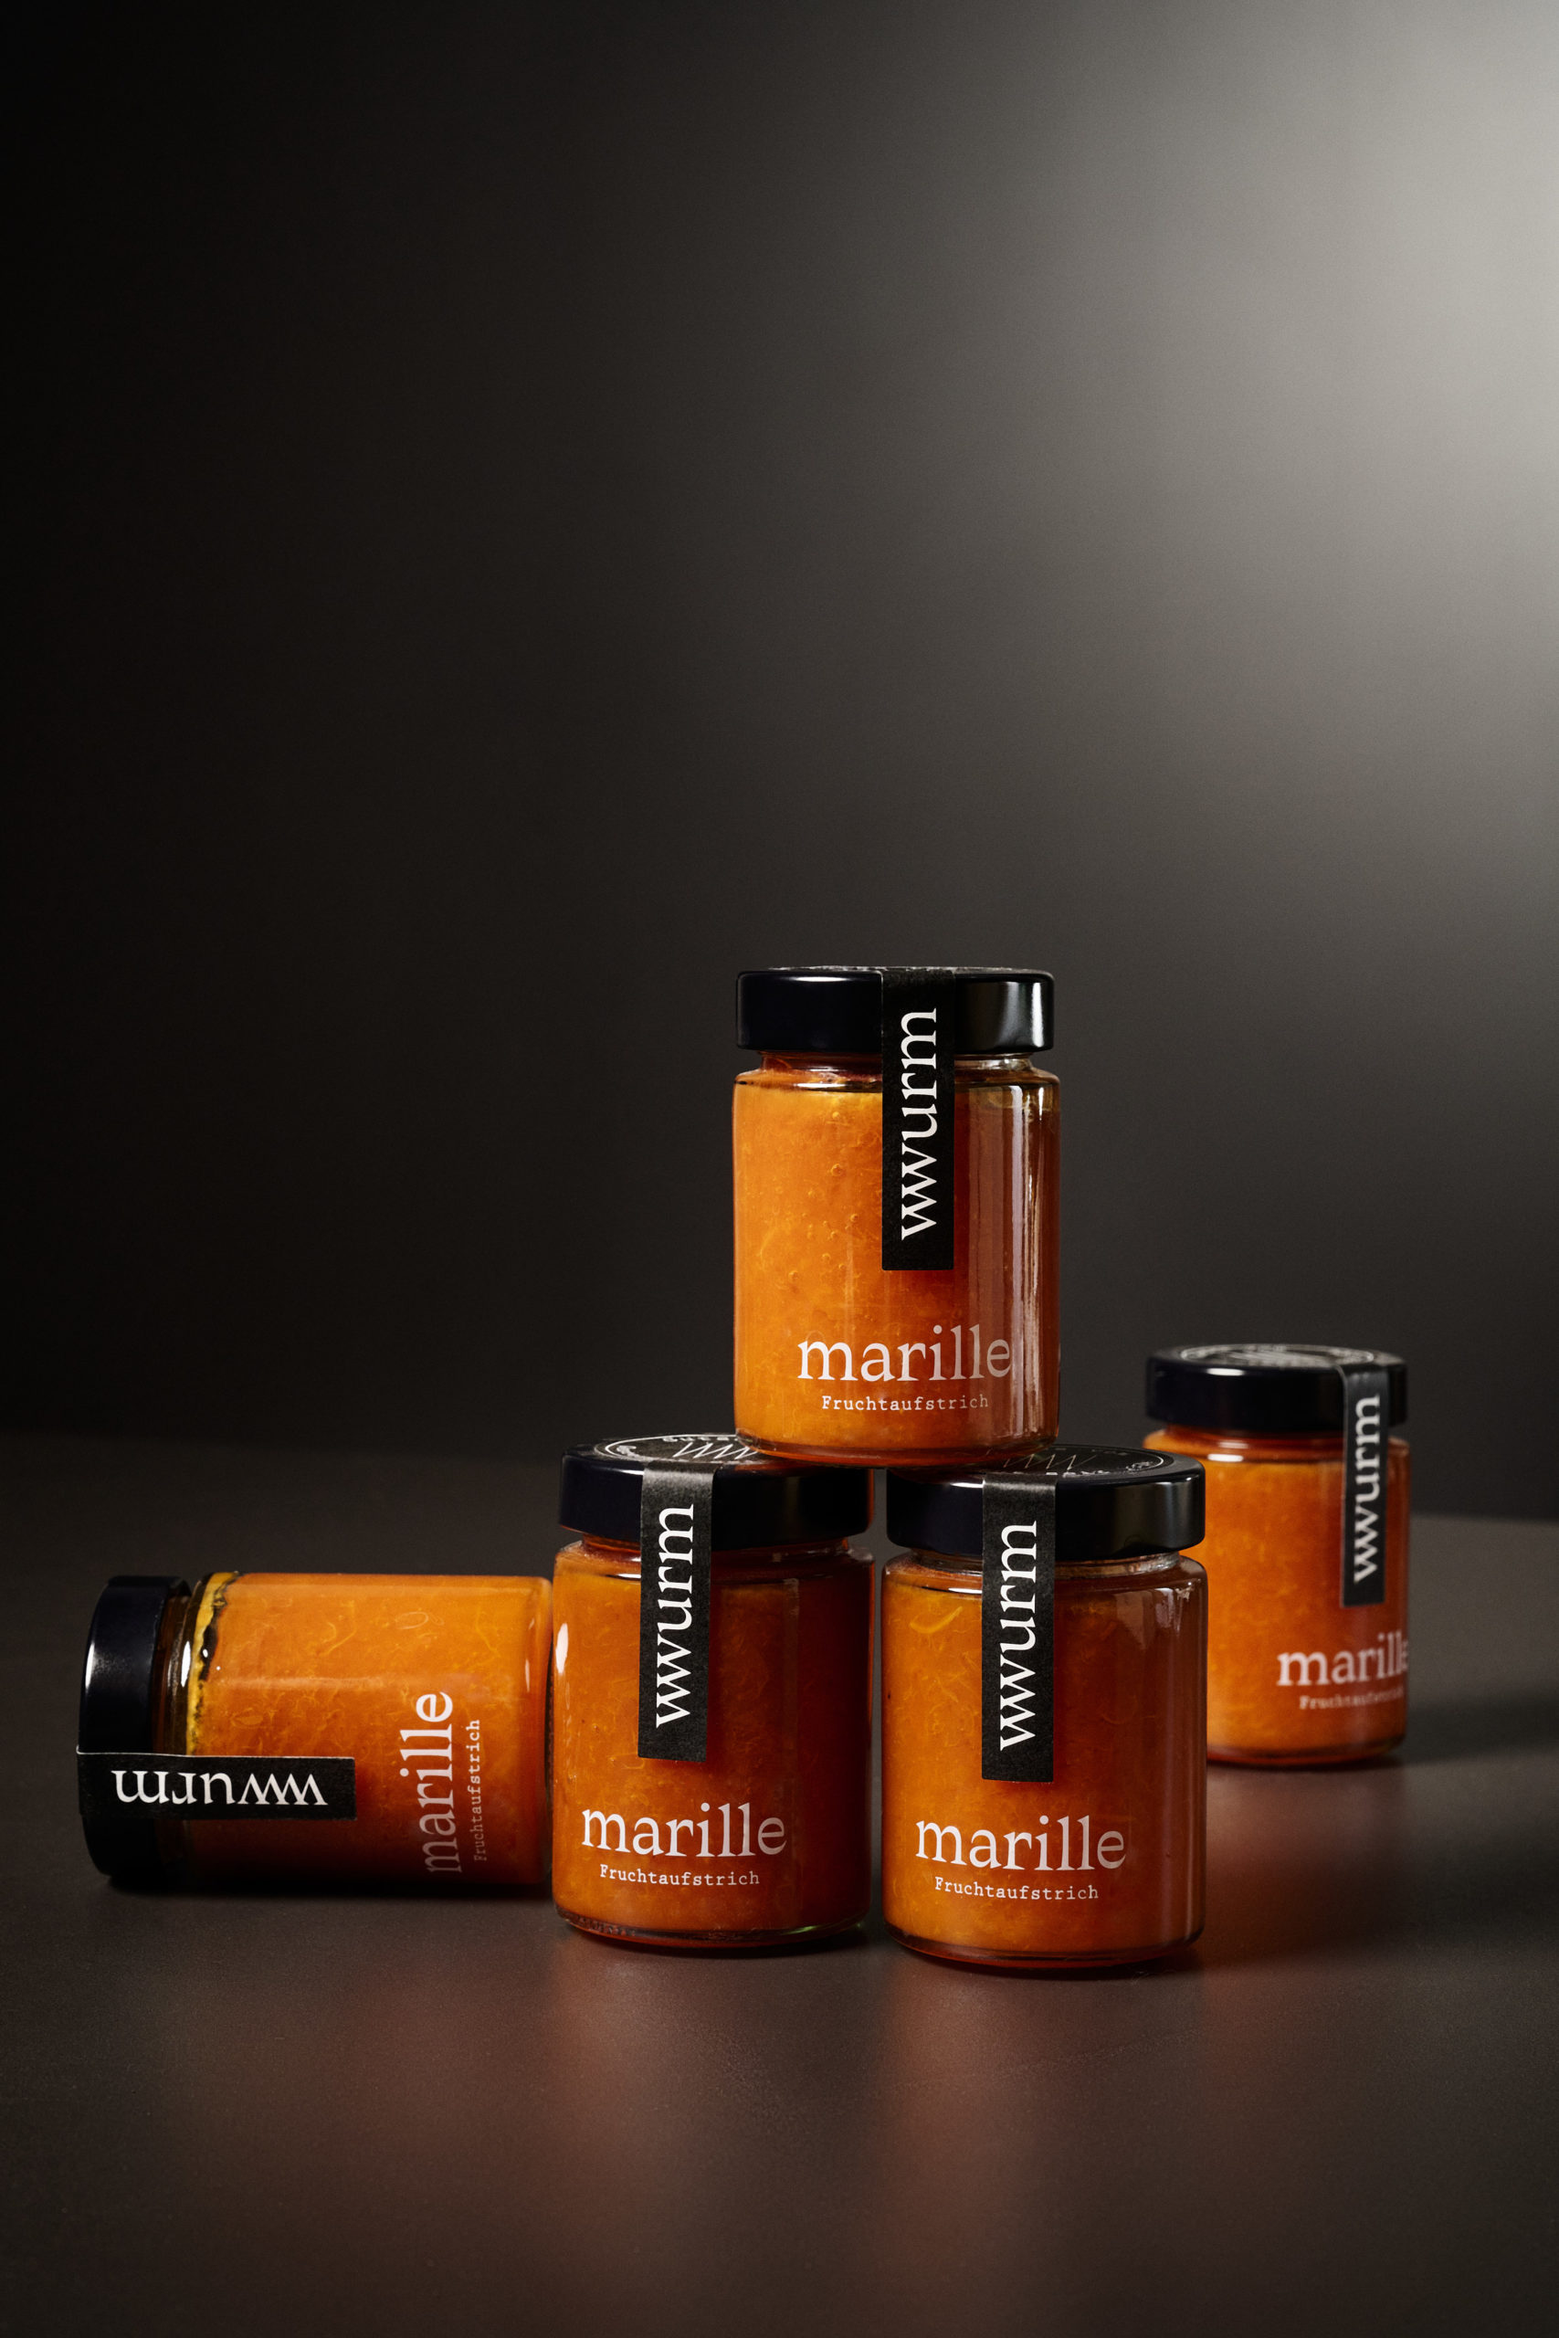
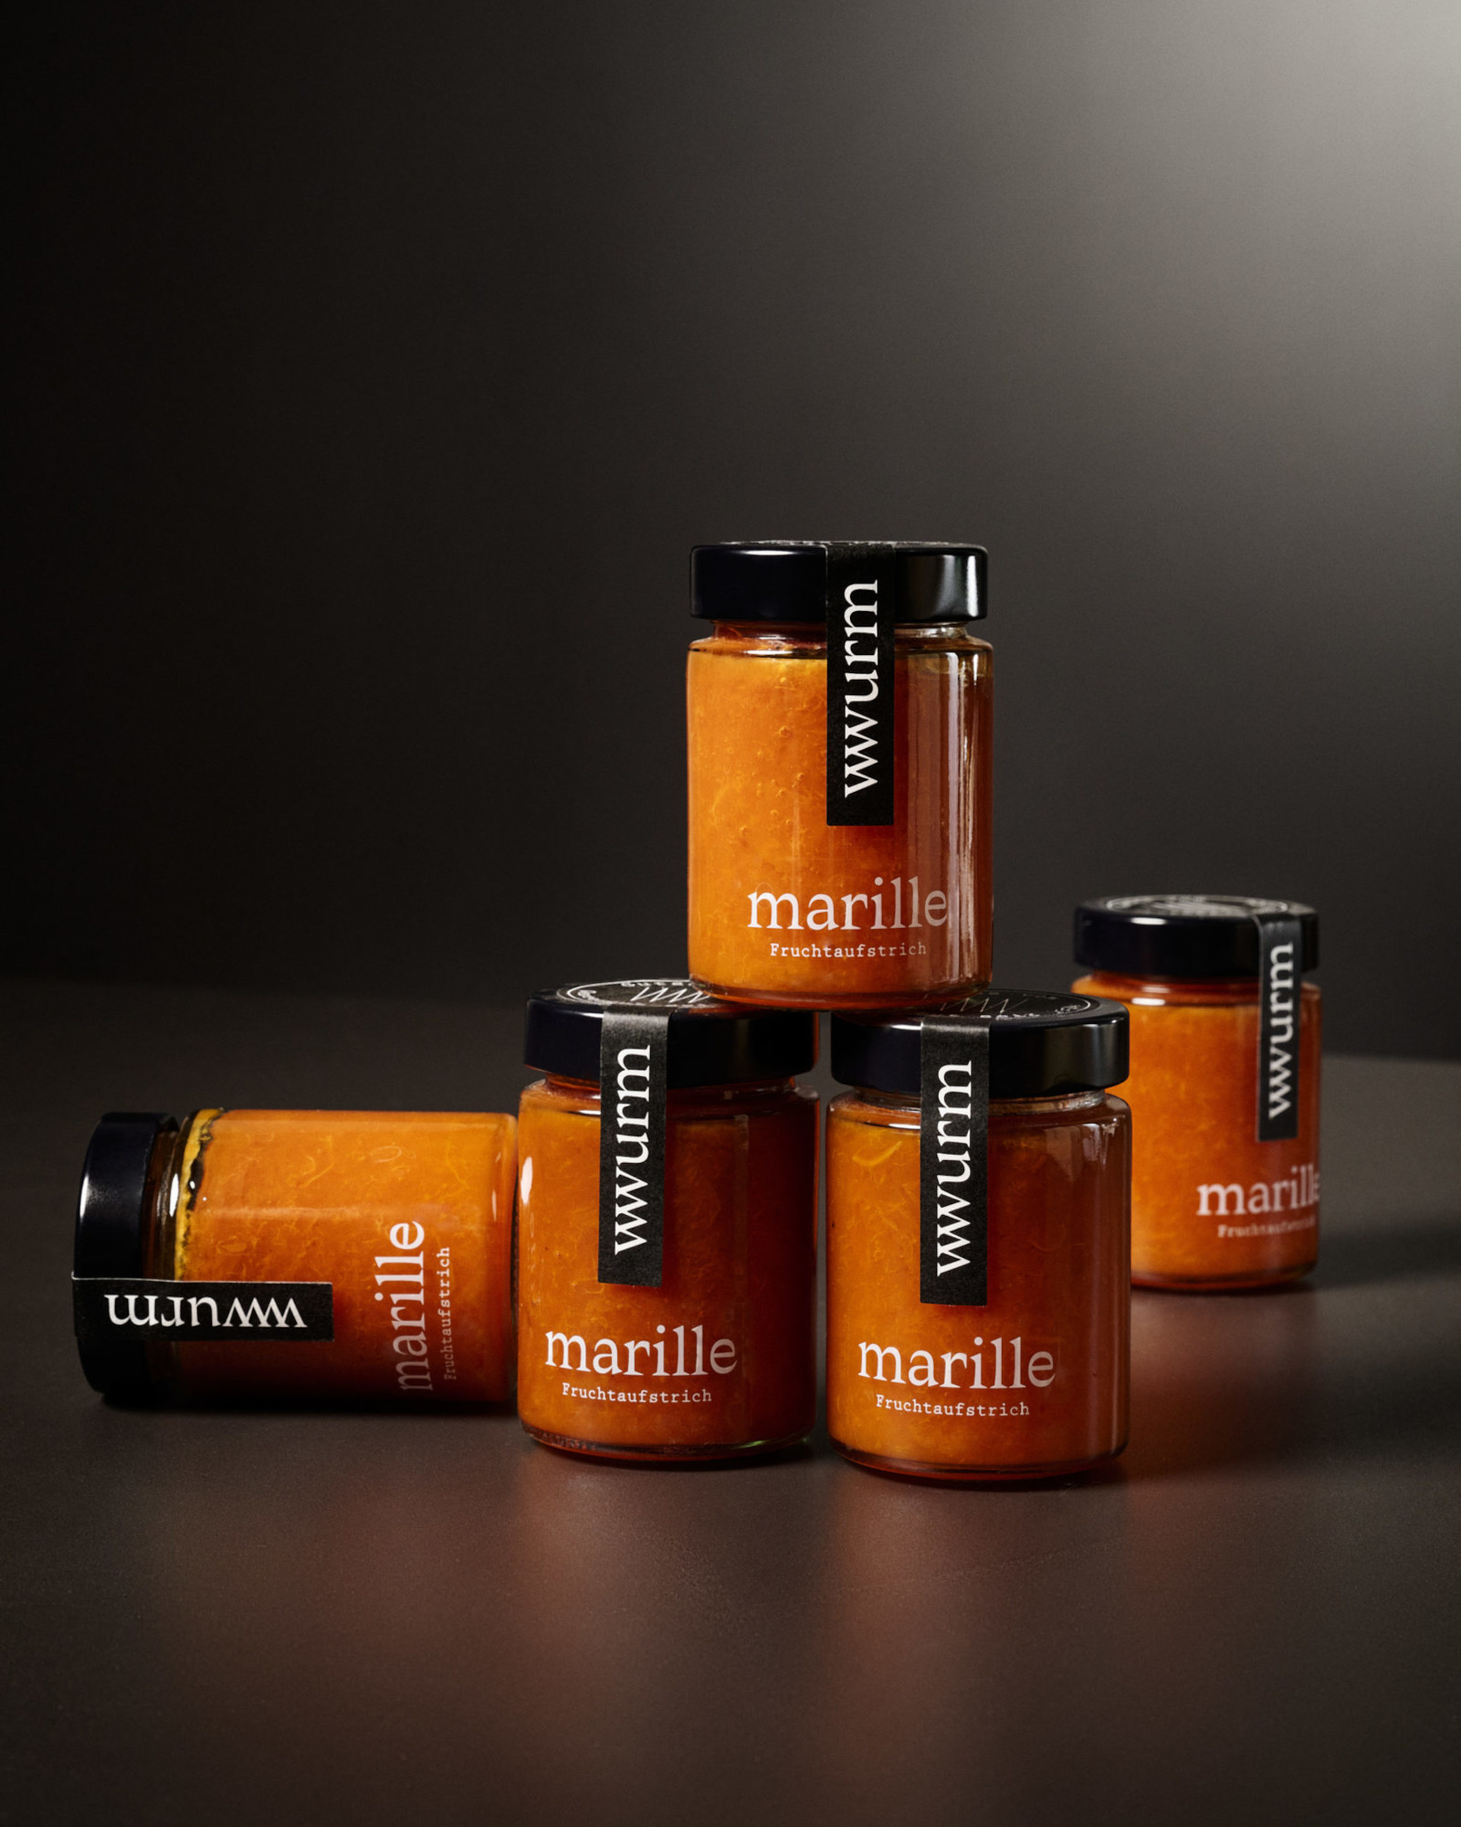
correct photo with wrong aspect ratio

diff --git a/ecs-nordic-cdk/lib/ecs-nordic-cdk-stack.ts b/ecs-nordic-cdk/lib/ecs-nordic-cdk-stack.ts
@@ -8,7 +8,7 @@ export class EcsNordicCdkStack extends cdk.Stack {
   constructor(scope: Construct, id: string, props?: cdk.StackProps) {
     super(scope, id, props);
 
-  // add VPC (Virtual Private Cloud)
+  // Add VPC (Virtual Private Cloud)
     const vpc = new cdk.aws_ec2.Vpc(this, "vpc-wwurm", {
       ipAddresses: cdk.aws_ec2.IpAddresses.cidr(
         cdk.aws_ec2.Vpc.DEFAULT_CIDR_RANGE
@@ -27,7 +27,7 @@ export class EcsNordicCdkStack extends cdk.Stack {
       ],
     });
 
-    // add key pair to access EC2 instance
+    // Add key pair to access EC2 instance
     const keyPair = ec2.KeyPair.fromKeyPairAttributes(this, 'KeyPair', {
       keyPairName: 'KeyPair2',
       type: ec2.KeyPairType.RSA,
@@ -47,12 +47,16 @@ export class EcsNordicCdkStack extends cdk.Stack {
     });
 
     // Create Task definition of Containers with a Bridge network
-
+    // with a bridge for the networking
+    // Expose instance to public
     const taskDefinition = new ecs.Ec2TaskDefinition(this, 'TaskDef', {
-      networkMode: cdk.aws_ecs.NetworkMode.BRIDGE, // add a bridge for the networking and to expose instance to public
+      networkMode: cdk.aws_ecs.NetworkMode.BRIDGE, 
     });
 
-    const webapi = taskDefinition.addContainer('webapi', { //case sensitive - the name must be in lower case letters to work
+
+    // Add backend container
+    // 'webapi' is case sensitive - the name must be in lower case letters to work
+    const webapi = taskDefinition.addContainer('webapi', { 
       image: ecs.ContainerImage.fromRegistry("snapdragonxc/dotnet-wwurm"),
       memoryLimitMiB: 512,
     });
@@ -63,6 +67,7 @@ export class EcsNordicCdkStack extends cdk.Stack {
       protocol: ecs.Protocol.TCP,
     });
 
+    // Add frontend container
     const appContainer = taskDefinition.addContainer('AppContainer', {
       image: ecs.ContainerImage.fromRegistry("snapdragonxc/app-wwurm"),
       memoryLimitMiB: 512,
@@ -74,6 +79,7 @@ export class EcsNordicCdkStack extends cdk.Stack {
       protocol: ecs.Protocol.TCP,
     });
 
+    // Add backend network alias to frontend container
     appContainer.addLink(webapi); 
 
     // Instantiate an Amazon ECS Service
@@ -82,6 +88,6 @@ export class EcsNordicCdkStack extends cdk.Stack {
       taskDefinition
     });
 
-    ecsService.connections.allowFromAnyIpv4(cdk.aws_ec2.Port.allTcp()); // this is required
+    ecsService.connections.allowFromAnyIpv4(cdk.aws_ec2.Port.allTcp()); 
   }
 }
